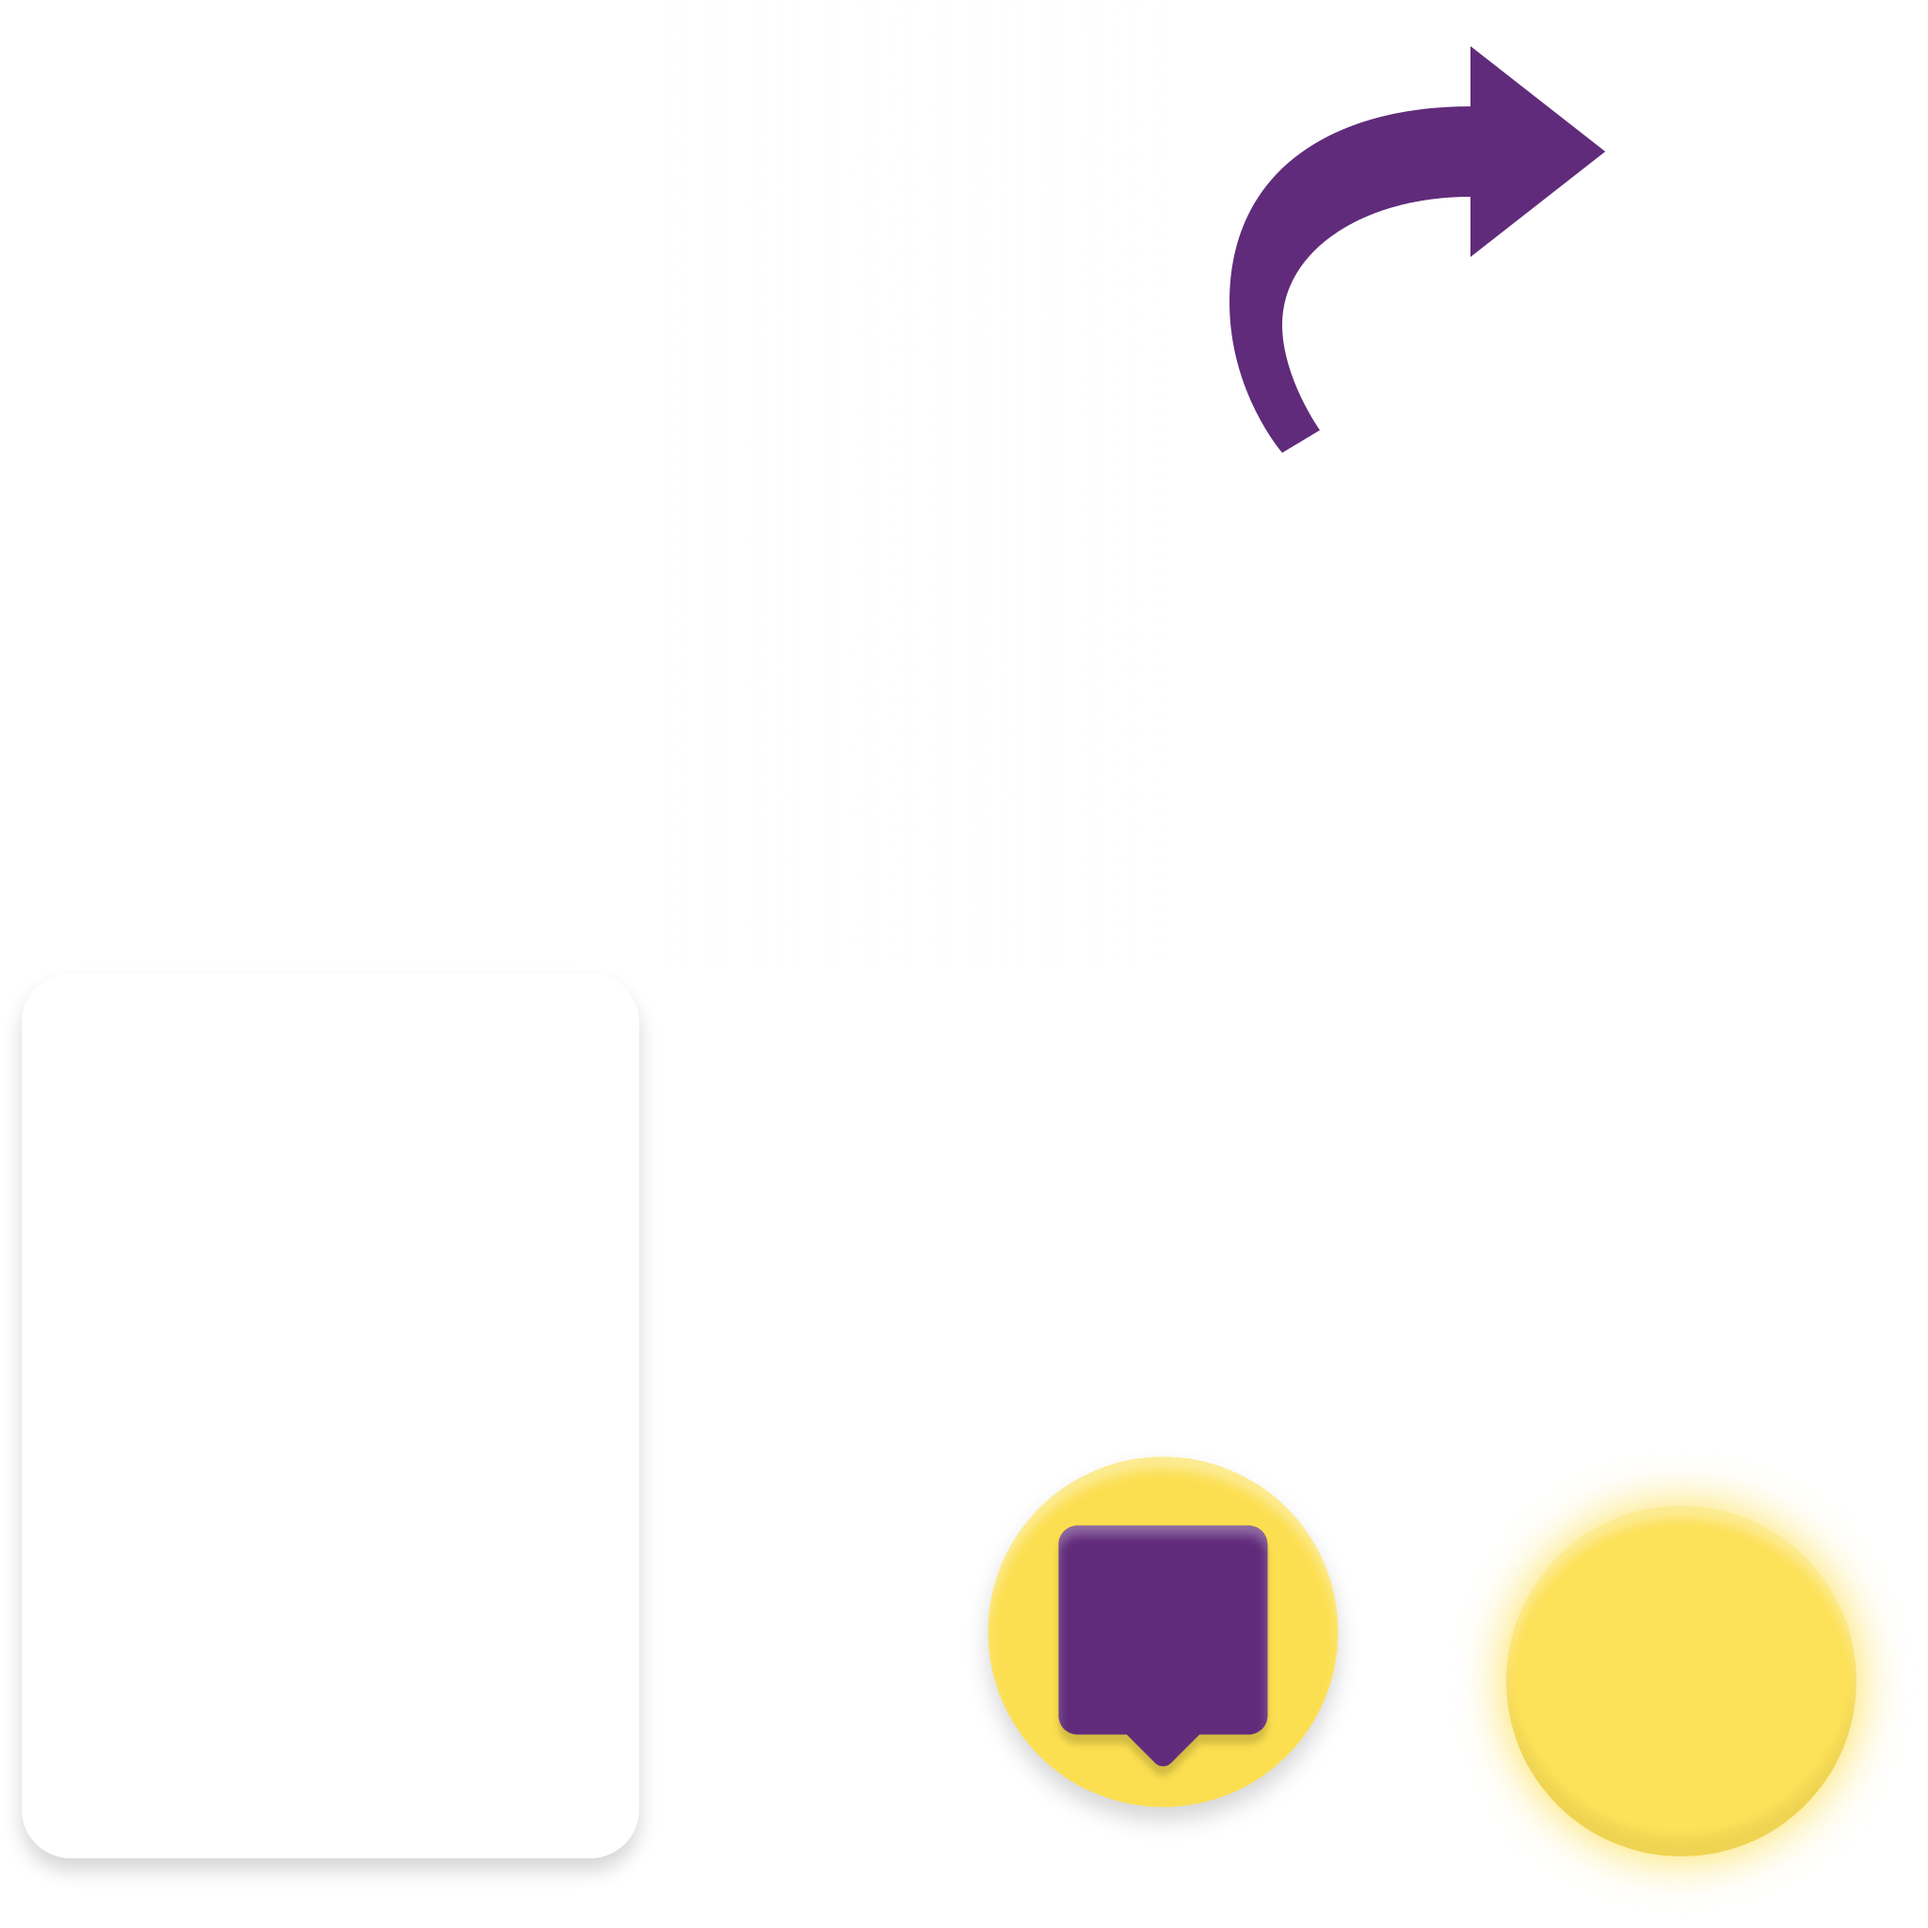
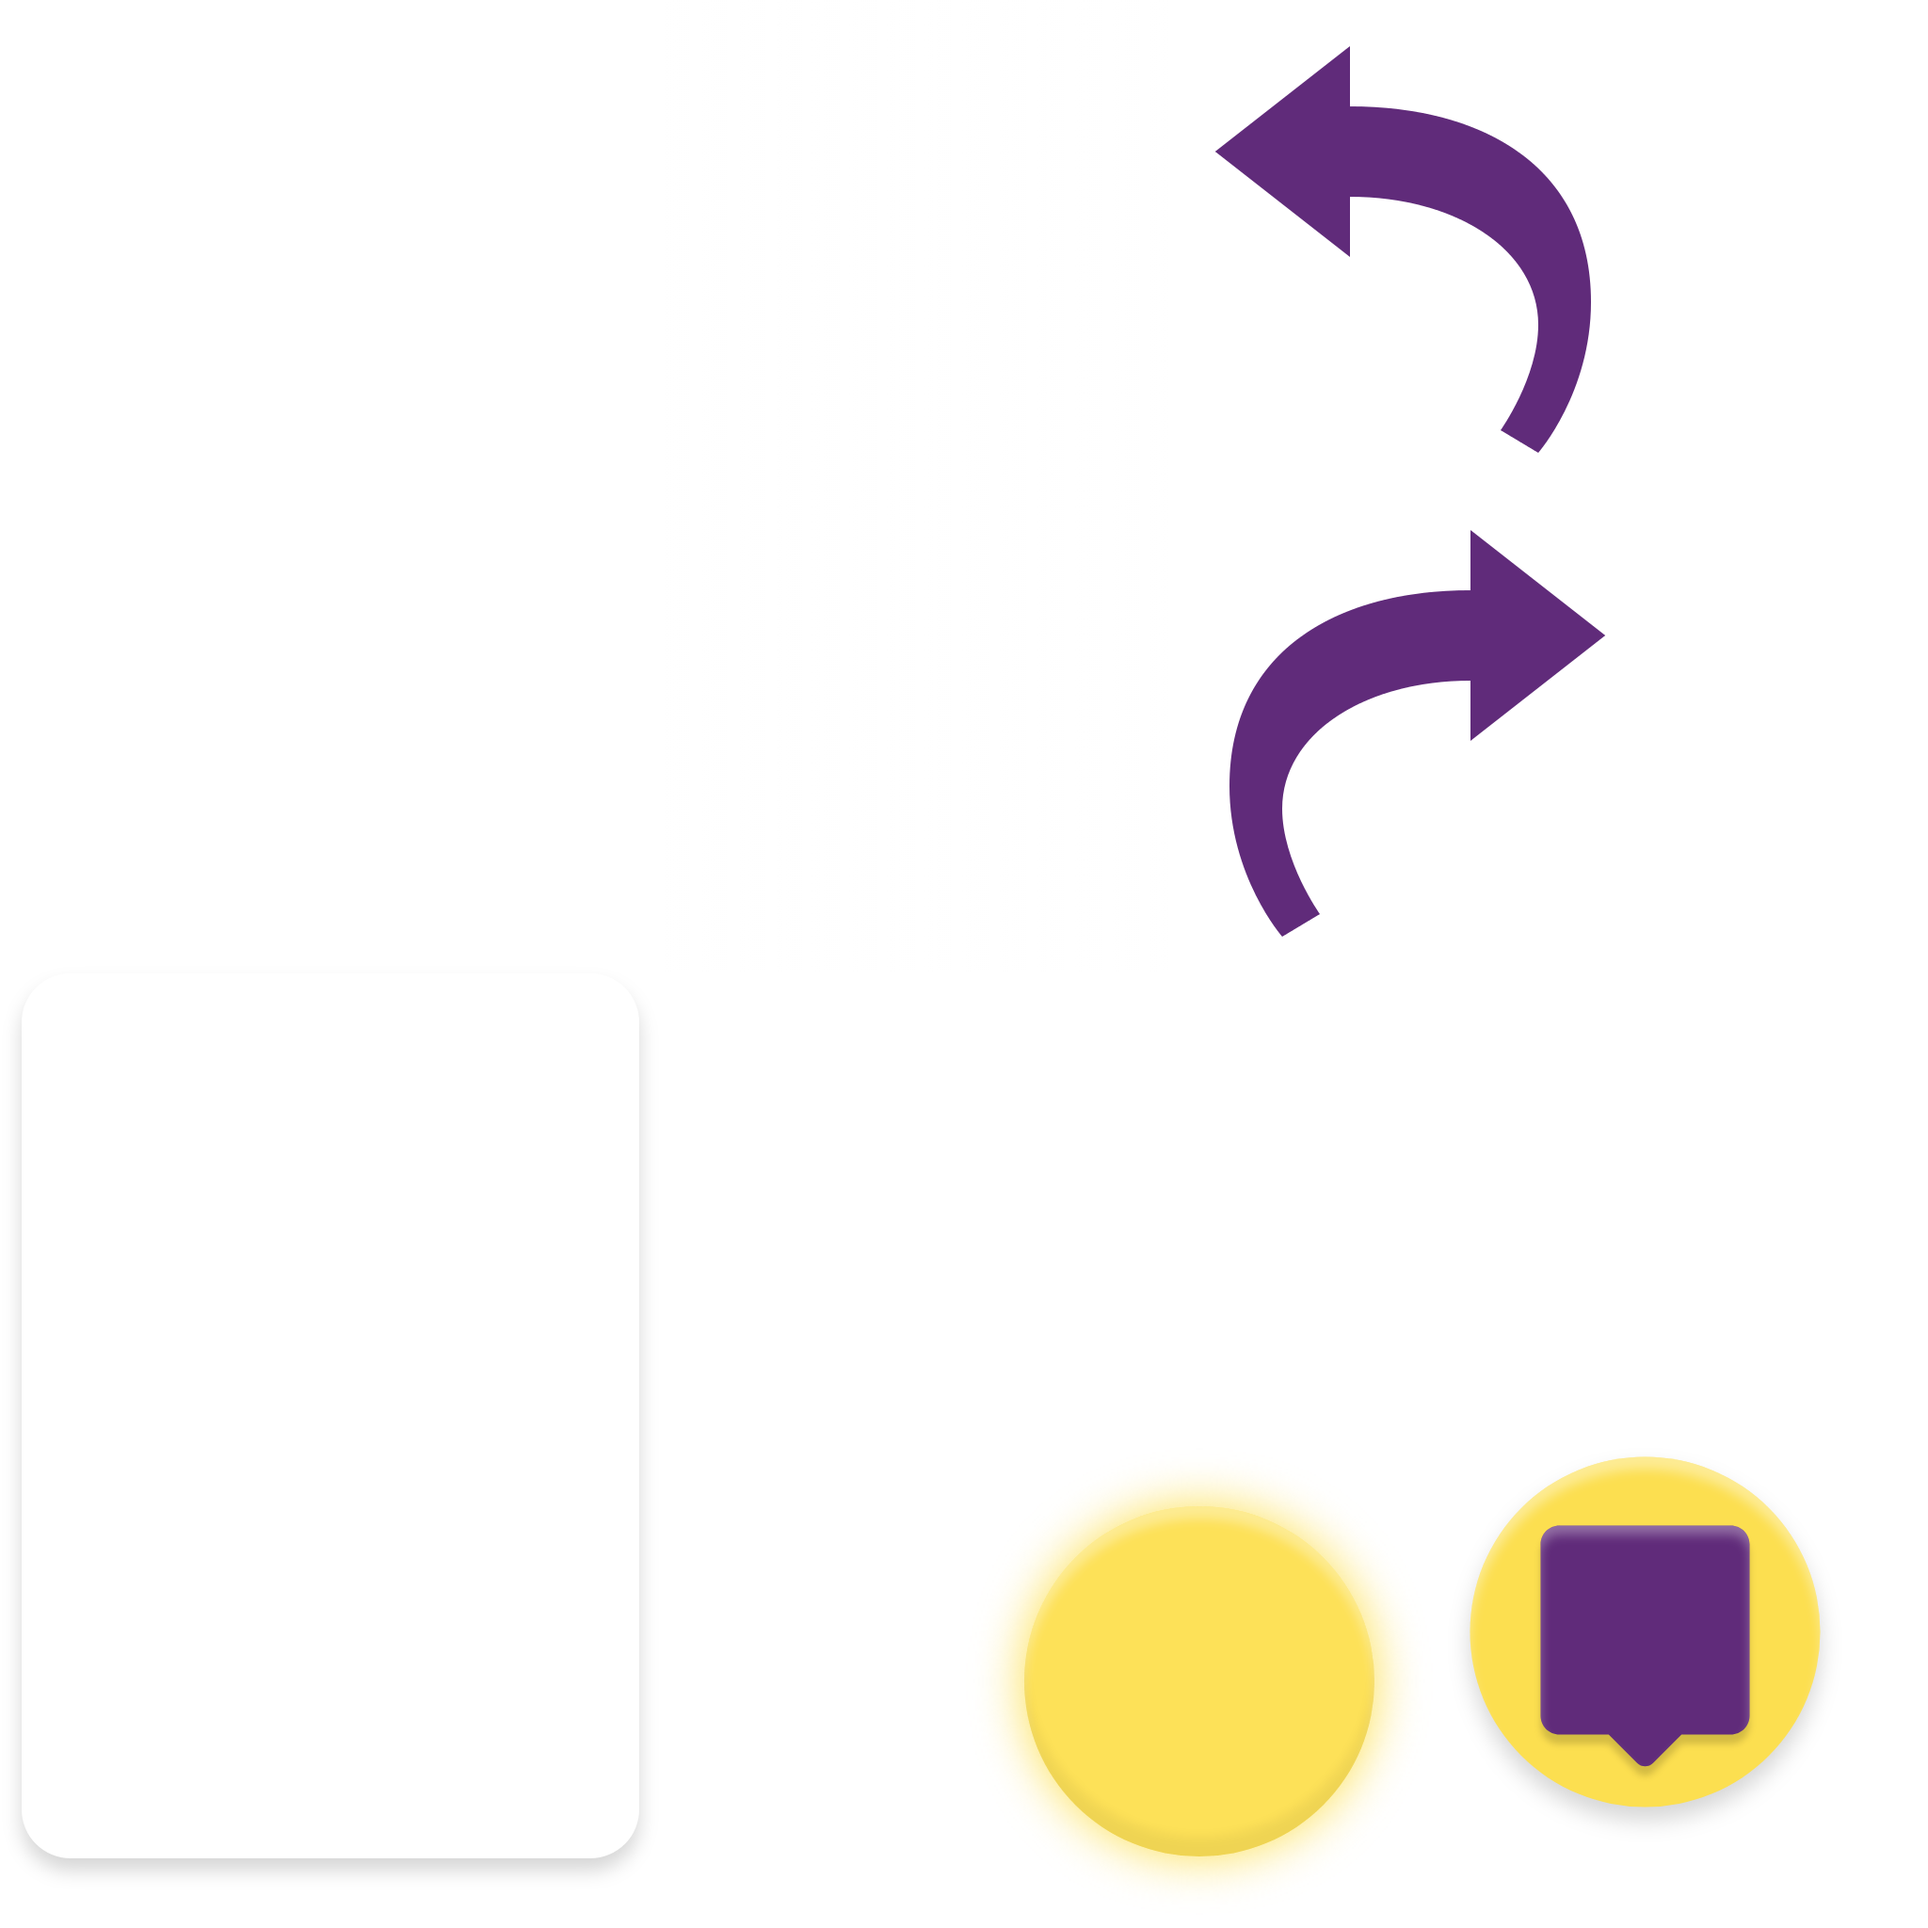
update

Changed region(s): [[0.5, 0.75, 1.0, 1.0], [0.625, 0.0312, 0.8438, 0.25], [0.625, 0.2812, 0.8438, 0.5]]

diff --git a/scripts/objRefTable.js b/scripts/objRefTable.js
@@ -105,6 +105,7 @@ self.C3_JsPropNameTable = [
 	{question: 0},
 	{Keyboard: 0},
 	{info: 0},
+	{arrow2: 0},
 	{i: 0}
 ];
 
@@ -140,5 +141,6 @@ self.InstanceType = {
 	logiks_plus: class extends self.ITextInstance {},
 	question: class extends self.ITextInputInstance {},
 	Keyboard: class extends self.IInstance {},
-	info: class extends self.ISpriteInstance {}
+	info: class extends self.ISpriteInstance {},
+	arrow2: class extends self.ISpriteInstance {}
 }
